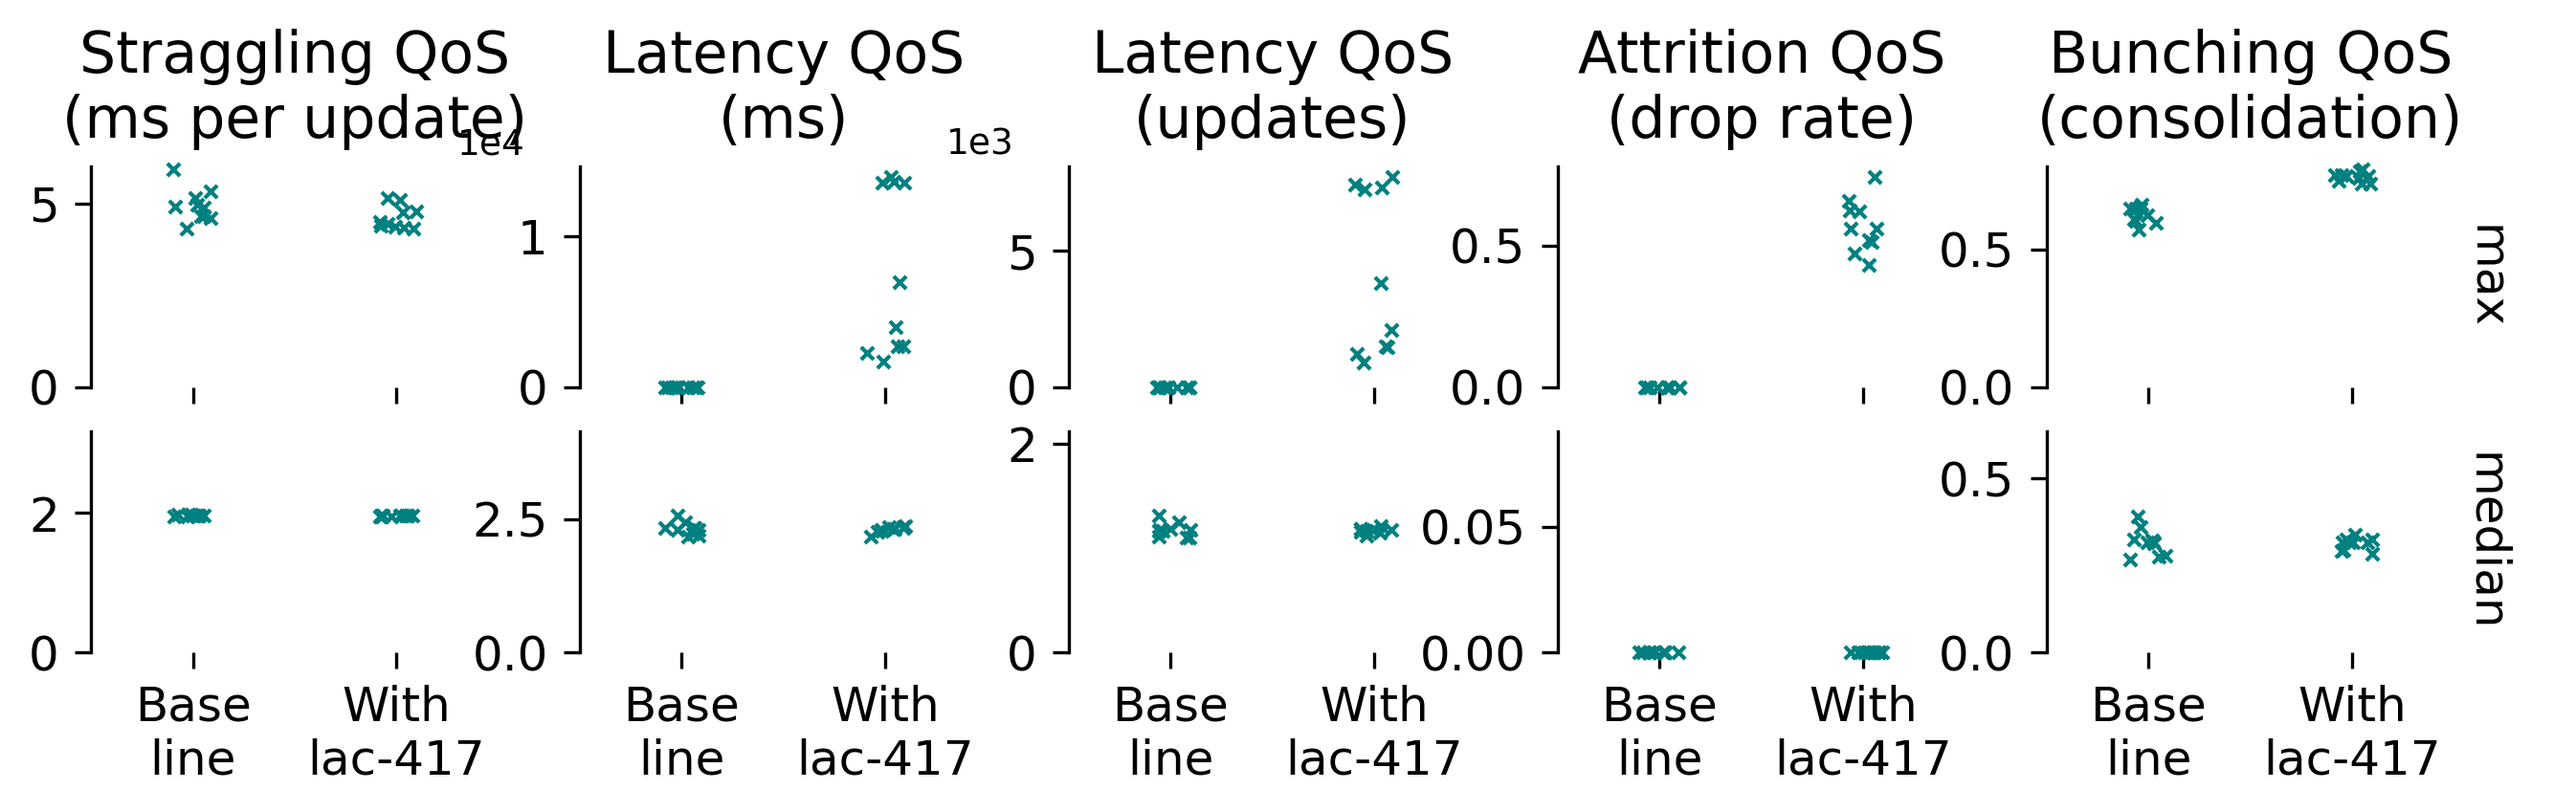
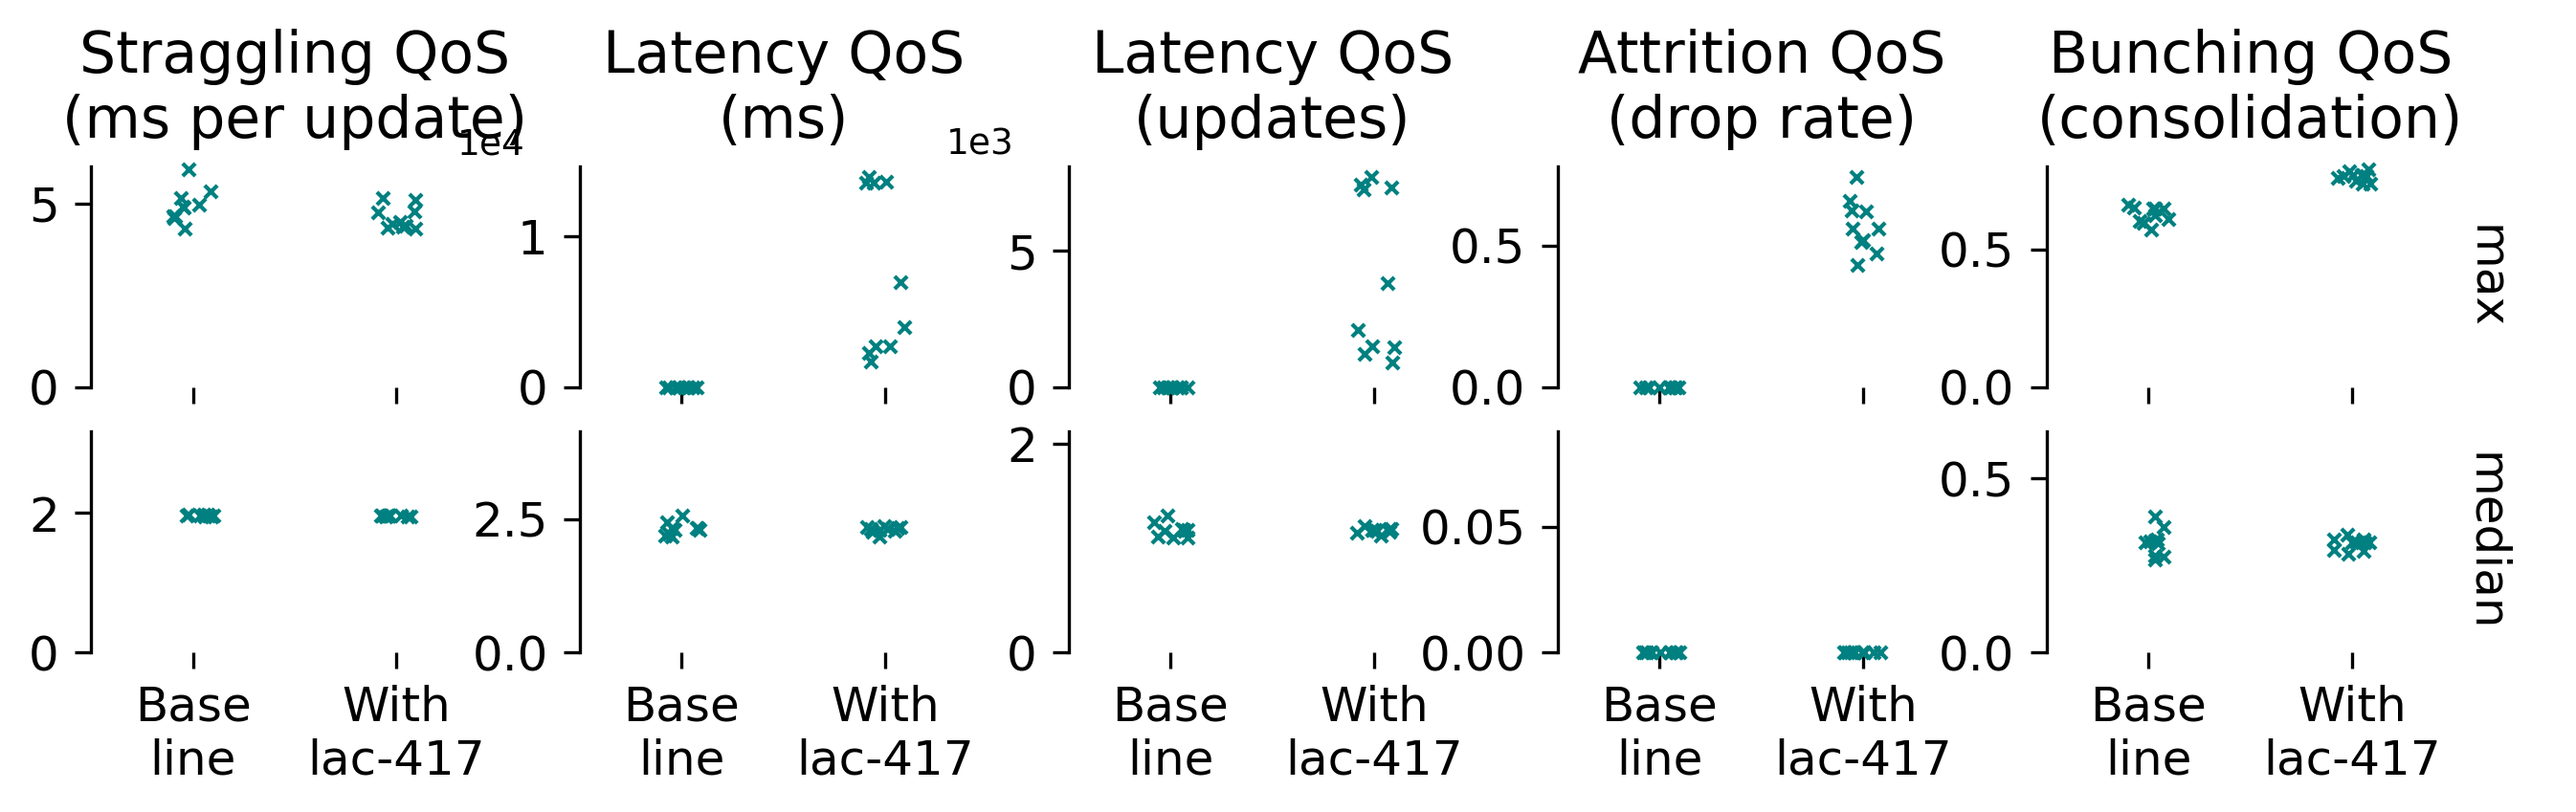
Deploying to bindle-2026-05-16-lac-417.py (widen Base line/With lac-417 gap further; shrink facet titles 10%)

diff --git a/bindle/2026-05-16-lac-417.py b/bindle/2026-05-16-lac-417.py
@@ -506,13 +506,17 @@ def _(
             _ax.yaxis.get_offset_text().set_fontsize(9)
             # widen the gap between the "Base line"/"With lac-417" x-tick
             # labels, which otherwise crowd together at this panel's width
-            _ax.margins(x=0.3)
+            _ax.margins(x=0.1)
         # matplotlib auto-raises a facet's title at draw time to dodge its
         # offset text (columns without offset text keep their titles at the
         # default position, creating a ragged title row); passing an
         # explicit y disables that autoposition so all titles line up
         for _a in _g.axes.flat:
-            _a.set_title(_a.title.get_text(), y=1.02)
+            _a.set_title(
+                _a.title.get_text(),
+                y=1.02,
+                fontsize=_a.title.get_fontsize() * 0.9,
+            )
         for _ax in _g.axes[1, :].flat:
             _ax.set_ylim(1.6 * np.array(_ax.get_ylim()))
         sns.despine(fig=_g.figure, bottom=True)
